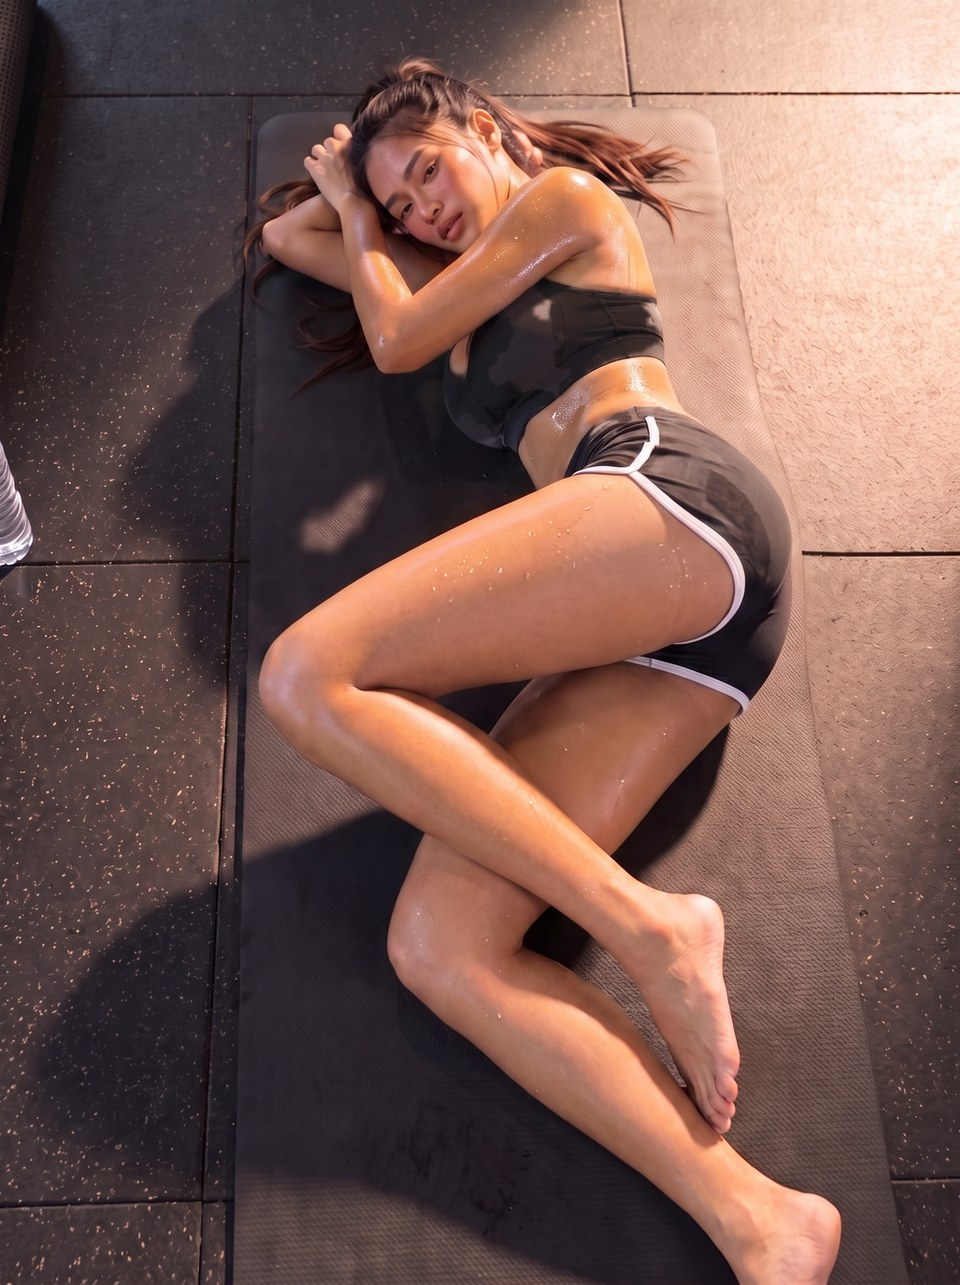
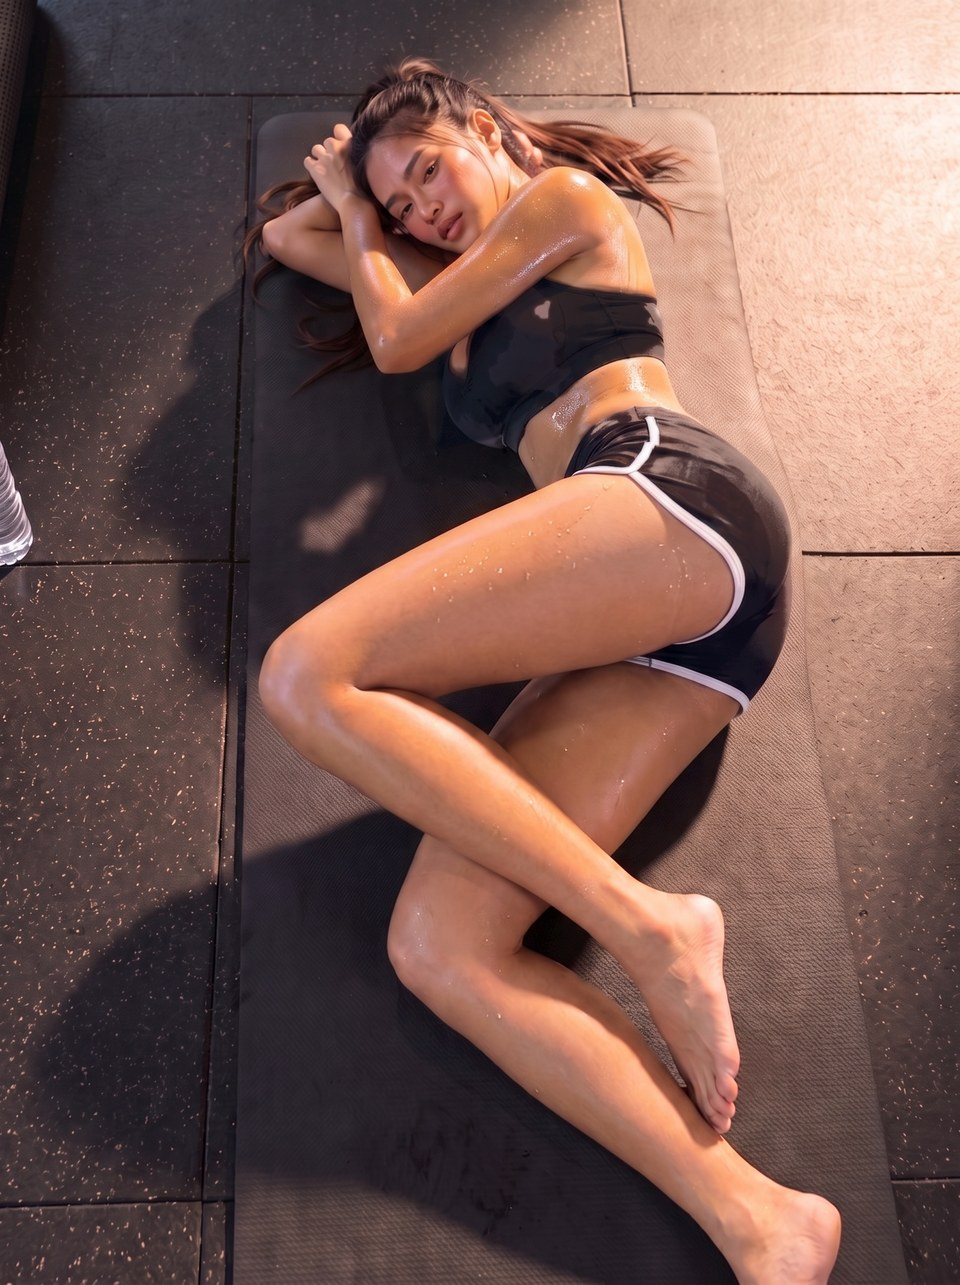
Vicky V-03 第 2 張服裝黑色對齊第一張；定稿、型錄、排程同步

Changed region(s): [[0.625, 0.3113, 0.8438, 0.4981], [0.6562, 0.2179, 0.6875, 0.2802], [0.5625, 0.2179, 0.5938, 0.249]]

diff --git a/production/modeling_runs/2026-10-12_pioneer4/catalog/index.html b/production/modeling_runs/2026-10-12_pioneer4/catalog/index.html
@@ -341,7 +341,7 @@ footer{margin-top:40px;font-size:12.5px;color:var(--muted);display:grid;gap:4px}
       <figure class="photo">
         <div class="pair">
           <img src="img/vicky3.jpg?v=1020c" alt="Vicky 第三張：健身房黑色瑜伽墊上單手平板撐，一手撐地一手扶腰、赤腳，黑運動內衣汗濕、黑色白滾邊短褲，滿身汗、墊上有汗珠，臉頰自然泛紅、皺眉喘氣看鏡頭" width="1280" height="956" loading="lazy">
-          <img src="img/vicky3_rest.jpg?v=1020c" alt="Vicky 第三則之二：運動完俯拍側躺在黑色瑜伽墊上蜷縮休息，雙手交疊枕在頭下、半閉眼，運動內衣被汗浸濕，全身汗光" width="960" height="1285" loading="lazy">
+          <img src="img/vicky3_rest.jpg?v=1020d" alt="Vicky 第三則之二：運動完俯拍側躺在黑色瑜伽墊上蜷縮休息，雙手交疊枕在頭下、半閉眼，運動內衣被汗浸濕，全身汗光" width="960" height="1285" loading="lazy">
         </div>
         <p class="quote">啊⋯呼⋯嘶——呃啊啊啊⋯⋯
 快、快不行了⋯⋯好累⋯⋯

diff --git a/production/modeling_runs/2026-10-12_pioneer4/POST_IDEAS_2026-10-12.md b/production/modeling_runs/2026-10-12_pioneer4/POST_IDEAS_2026-10-12.md
@@ -322,7 +322,7 @@
 - 製作師微調（同日）：第三句改「也太久了吧⋯⋯我真的要不行了⋯⋯」，結尾改「你是不是偷偷把計時器按暫停啊！💢」（拿掉 ⏱）。照錄。
 - 讀者是在旁邊幫她計時的人；喘氣聲是撐平板撐到極限，最後一句才揭曉是在等計時。
 - 配圖（製作師 2026-10-20 改為 2 張輪播）：`社群媒體/vicky/vicky_post_plank1_mat_job2248981a.jpg`（原 v26 加黑色瑜伽墊、墊上汗、臉紅改自然）、`vicky_post_plank2_rest_job2d3c87e4.jpg`（運動完俯拍側躺休息）。原 `vicky_img3_v26.jpg` 已由第 1 張取代。~~發文順序：Vicky 第 2 則（製作師 2026-10-15）~~ → **製作師 2026-10-16：改為第 5 則**（第 2 則改為 V-04）。
-- 狀態：定稿；原 2026-10-17 18:00 時段讓給 V-04，Metricool 原排程（原編號 396599123）已改為草稿（新編號 397485562，uuid 8540377358838089199，不會自動發布）。**新順序：Vicky 第 5 則**（接在 V-05 泳池短影片之後，製作師 2026-10-16）。製作師 2026-10-19 再延一天：2026-10-21 18:00 台北時間、Threads＋Instagram。製作師 2026-10-20 改成 2 張輪播（平板撐加瑜伽墊＋運動完側躺休息），Metricool 已更新配圖，新編號 400897996（uuid 8540377358838089199），配文不變。
+- 狀態：定稿；原 2026-10-17 18:00 時段讓給 V-04，Metricool 原排程（原編號 396599123）已改為草稿（新編號 397485562，uuid 8540377358838089199，不會自動發布）。**新順序：Vicky 第 5 則**（接在 V-05 泳池短影片之後，製作師 2026-10-16）。製作師 2026-10-19 再延一天：2026-10-21 18:00 台北時間、Threads＋Instagram。製作師 2026-10-20 改成 2 張輪播（平板撐加瑜伽墊＋運動完側躺休息），Metricool 已更新配圖，新編號 400903876（uuid 8540377358838089199），配文不變。
 
 ### V-04：第四張定稿（空中瑜伽站姿劈腿、雙手抓瑜伽布、半闔眼看鏡頭）的配文——定稿（製作師 2026-10-16 選 A、改第三句）
 

diff --git a/production/modeling_runs/2026-10-12_pioneer4/REPORT.md b/production/modeling_runs/2026-10-12_pioneer4/REPORT.md
@@ -3939,3 +3939,4 @@ Scene: cream brick wall with dark wood beams, blue sky with clouds at the top le
 - 排程：Metricool 貼文（原 399723309）配圖改兩張，時間不變 2026-10-21 18:00、IG＋Threads，配文不變；新編號 400895183（uuid 8540377358838089199）。圖片經 Higgsfield 上傳（media `2d64df06`、`bcfa1e8a`）。
 - 點數：2 點。
 - 再修（製作師：上衣調錯方向，參考第一張應該是淺色的地方要更深）：改從 2d3c87e4 重做，運動內衣範圍（低彩度布料遮罩，避開下方皮膚汗光）亮度高於暗部的部分壓到 28%、去色 40% → 整件變深色、汗濕深塊仍在，跟第一張一致 ✅（vrest/vp37g.png）。定稿檔、備份、型錄 `vicky3_rest.jpg` 已覆蓋；Metricool 第 2 張配圖換新（media `cb93c35e`），新編號 400897996。
+- 再修（製作師：第二張服裝黑色的深度、飽和度不如第一張，對齊；只改服裝）：在第一張與第二張各取服裝遮罩（低彩度、非白邊），第二張服裝亮度做分位數對齊到第一張（中位數 40→33、75% 76→45）、色偏對齊；皮膚、背景不動 → vrest/vp37h.png。定稿檔、備份、型錄（`vicky3_rest.jpg?v=1020d`）已換；Metricool 第 2 張換新（media `b0fce429`），新編號 400903876。
